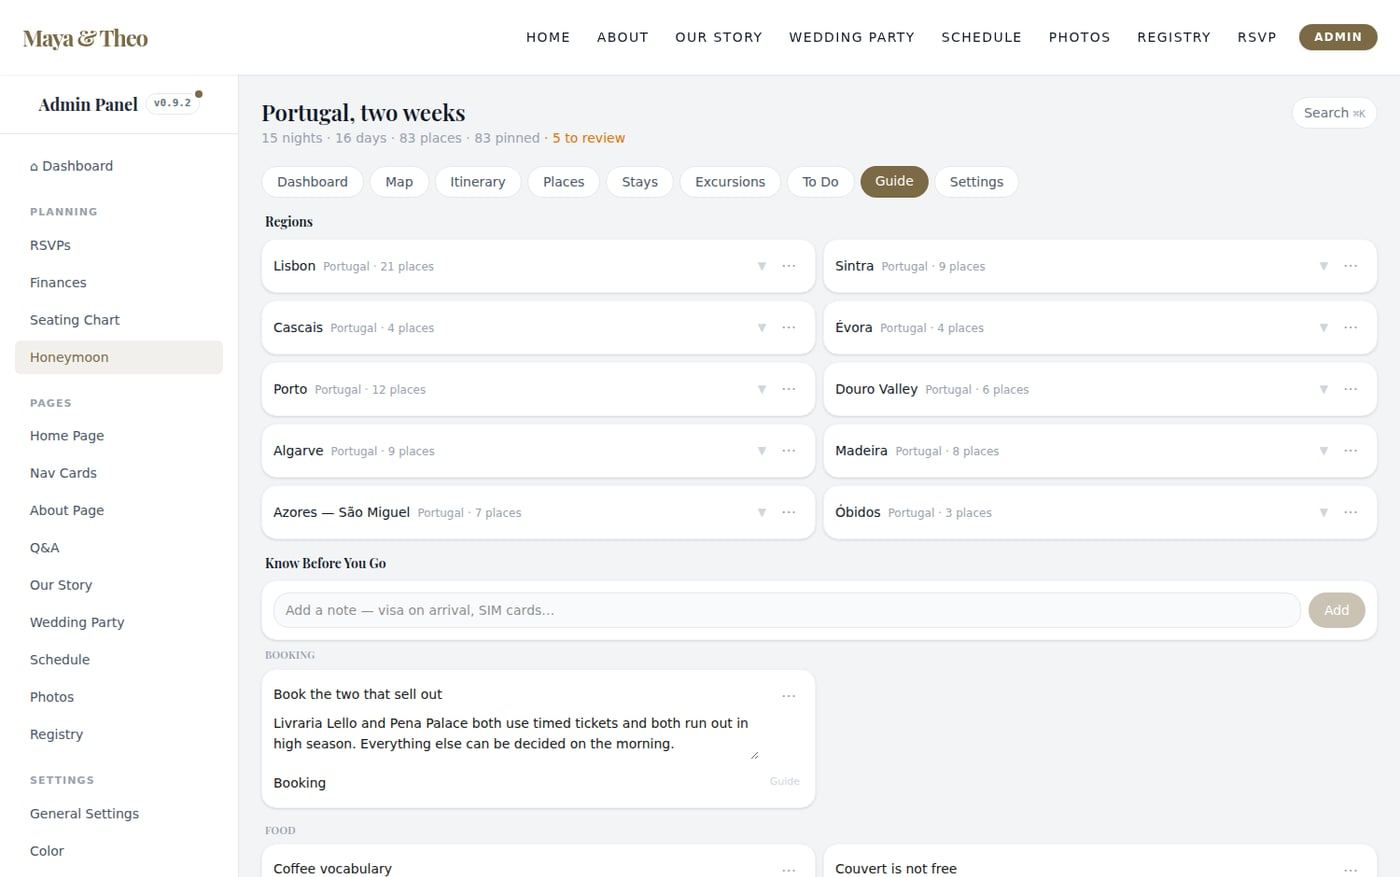
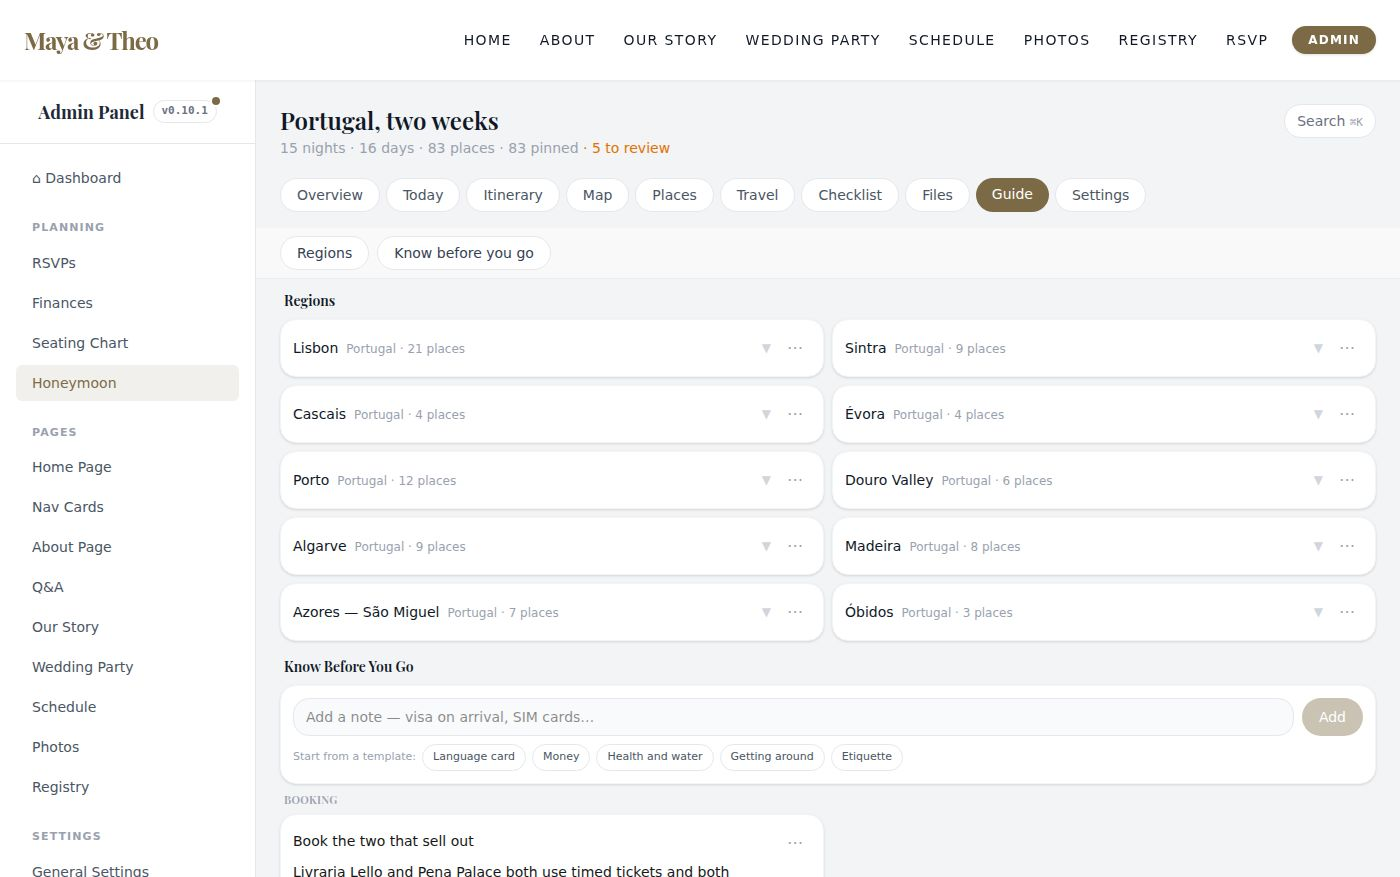
v0.10.1: Files, a calendar that waits for you, and a second pass

diff --git a/src/app/admin/honeymoon/FilesTab.tsx b/src/app/admin/honeymoon/FilesTab.tsx
@@ -491,12 +491,23 @@ function FileViewer({ docs, openId, onOpen, warnings }: {
                             </MiniSelect>
                         </Field>
                         <Field label="Whose">
-                            <MiniSelect value={doc.person ?? ''} onChange={(e) => set({ person: e.target.value })} aria-label="Whose">
-                                <option value="">Shared</option>
-                                {[...new Set([...partners, ...(doc.person ? [doc.person] : [])])].map((name) => (
-                                    <option key={name} value={name}>{name}</option>
-                                ))}
-                            </MiniSelect>
+                            {/* The trip's two names when Settings has them; a box to type
+                                one when it does not, so a file can always be someone's. */}
+                            {partners.length > 0 ? (
+                                <MiniSelect value={doc.person ?? ''} onChange={(e) => set({ person: e.target.value })} aria-label="Whose">
+                                    <option value="">Shared</option>
+                                    {[...new Set([...partners, ...(doc.person ? [doc.person] : [])])].map((name) => (
+                                        <option key={name} value={name}>{name}</option>
+                                    ))}
+                                </MiniSelect>
+                            ) : (
+                                <InlineText
+                                    value={doc.person ?? ''}
+                                    placeholder="+ A name, or leave for Shared"
+                                    className="-ml-2 text-sm"
+                                    onCommit={(person) => set({ person: person.trim() })}
+                                />
+                            )}
                         </Field>
                         <Field label="Expires">
                             <input

diff --git a/CHANGELOG.md b/CHANGELOG.md
@@ -11,6 +11,37 @@ All notable changes to this project are documented here, newest at the top.
 > renders those three as coloured badges. Bump the patch on every deploy, the minor when
 > asked. Entries predating this convention carry a date but no time.
 
+## v0.10.1 — [Released] Files, a calendar that waits for you, and a second pass (`main`, 2026-10-05 05:51)
+
+Austin: on a phone, Settings' trip calendar should need a tap before it can be dragged — scrolling the page kept changing the dates. Add a Files tab, in More on the phone and a tab of its own, as a proper file explorer for the travel documents, and take documents out of Settings. Then another pass of improvements.
+
+### Added
+- **A Files tab** — a file explorer for the travel documents. Folders down the side by kind (Passports, Visas, Insurance, Tickets, Vaccinations, Reservations) and by person, with counts; a grid of thumbnails or a list; search across names and notes. Click a file and it opens big — the image, or the PDF itself — with ‹ › (and the arrow keys) to step through the folder, and its details editable beside it: what it is, whose, when it expires, what it is for (a place or a flight), notes. Drop files anywhere on the page to add them; what each one is gets guessed from its name ("Boarding pass SQ938.png" files itself as a ticket) and is one tap to change. In **More** on a phone, between Checklist and Guide on a laptop, and `g f` from the keyboard.
+- **Warnings that matter at a border.** A passport that expires within six months of coming home — the rule many countries enforce at check-in — or anything (a passport, a visa, a policy) that runs out before or during the trip, is flagged on its file and at the top of the tab. No passport on file is said once.
+- **Documents really work offline.** The old Documents section promised its files were "cached by the offline snapshot, so they open with no signal". They were not: the offline copy held the pages and the trip, never the files. Now the Files tab and the Today view hand every document to the portal's offline store, a deleted file leaves it, and the tab shows "Saved for offline: 5 of 5" so the promise can be checked. Tested by cutting the network and opening all five sample files.
+- **A tap before the dates move, on a touch screen.** Settings' trip calendar is locked on a phone or tablet: it scrolls like the rest of the page, and **Change dates** unlocks dragging. It locks itself again once a range is set. A mouse is never locked.
+- **Pull a panel down to close it**, or up to make it full height — the gesture every phone sheet has taught people. A tap on the handle still toggles the height.
+- **"Travel documents" on the Today view**, one tap to Files. Not on the read-only share link: documents stay private.
+
+### Changed
+- **The phone calendar** is a month of squares — the date, the trip day, a dot per stop and ✈ for travel — instead of seven columns of text cut to "La…". Tap a day to open it.
+- **The place form fits its panel.** It laid itself out by the window's width, so inside the panel on a laptop it squeezed four columns ("Restauran", "— from regio"). It now follows the panel's own width, and on a phone it opens at full height.
+- **Today's day arrows say where they go** — "‹ Day 1", "Day 3 ›", "First day" — instead of a bare arrow, and the one with nowhere to go no longer looks like an empty box.
+- **Show on the map leaves room for the panel**: the place lands in the visible part of the map rather than half under the panel.
+- **Every button has a pressed state and a visible keyboard focus ring**, and the press animation respects reduced motion.
+- **Settings is quieter**: one-line card descriptions with the detail behind ⓘ. The "Adding places" card is gone — its tips are on the place form's Location ⓘ — and so is Documents, which has its own tab.
+- **The place form's help paragraphs** (cost, opening hours) are behind ⓘ.
+- **README screenshots** retaken from the demo trip, with the timeline, the place panel and Files added.
+
+### Fixed
+- **The trip calendar's month arrows did nothing** — in production since the calendar was added. The calendar grabbed every press to track a drag, including presses on its own arrow buttons, so their clicks never arrived. Only a press on a day starts a drag now. Found by the new browser check on the Done button, confirmed against the old code (June stayed June) and fixed (June → July).
+- **The travel-leg editor ran off the screen on a phone**: date and time sat side by side and the time box was cut off. They stack on a phone now, in the Travel tab and inside a day card.
+- **Settings' share-link text** mentioned an internal field name.
+
+### Tested
+- **25 new assertions in `npm run check:honeymoon`** (now 743): guessing a document's kind from its name, the expiry rules (during the trip, before it, under six months after, none without dates or an expiry date), the folders and their counts, and search.
+- **`npm run check:honeymoon:ui`** grows to 53 checks: Files is a tab and in More, Settings has no Documents, a file opens in the viewer, the touch calendar starts locked and Change dates / Done work, the phone calendar fits, nothing inside a card spills past the screen edge on six tabs, and pulling a panel down closes it.
+
 ## v0.10.0 — [Released] The honeymoon portal, reorganised — and usable on a phone (`main`, 2026-10-05 04:12)
 
 Austin: the honeymoon module has a lot of stuff put in with no real organisation. Clicking a place opens two or three different windows depending on where you click it — there should be one all-inclusive popout that is the same wherever it is opened from. The itinerary's controls scroll away with the page; Stacked and Clock belong to the left of Days, Timeline and Calendar; and transport should show in the timeline, whose point is to see everything on a day, when to be there and when it ends. Rework the UI, then make mobile actually work.

diff --git a/AGENTS.md b/AGENTS.md
@@ -58,11 +58,11 @@ image:
 | `npm run check:finance` | Budget arithmetic |
 | `npm run check:finance:db` | The same against a live database |
 | `npm run check:finance:ui` | The finance UI's contracts (needs a browser; fetches Playwright on demand) |
-| `npm run check:honeymoon:ui` | The honeymoon portal in a real browser, 38 checks: the same place panel and sections from every entry point, the itinerary toolbar staying on screen, travel on both timeline shapes, overview cards never overlapping, and at 390×844 no sideways scroll and no control under 44px on any of its pages. Needs a browser and a server with honeymoon data (`BASE=… ADMIN_PASSWORD=…`, or `DEMO=1` against the demo) |
+| `npm run check:honeymoon:ui` | The honeymoon portal in a real browser, 53 checks (none of them write): the same place panel and sections from every entry point, the itinerary toolbar staying on screen, travel on both timeline shapes, overview cards never overlapping, and at 390×844 no sideways scroll and no control under 44px on any of its pages. Needs a browser and a server with honeymoon data (`BASE=… ADMIN_PASSWORD=…`, or `DEMO=1` against the demo) |
 | `npm run check:hero` | The home page's hero collapse in a real browser, at five viewport-and-input pairings — phone portrait, **phone landscape**, tablet portrait, tablet landscape, desktop — each driven by the input that device actually sends. Needs a browser and a server whose site config has a hero photo, or every case reports the placeholder instead of a pass |
 | `npm run audit:finance` | A deeper sweep over the finance logic |
 | `npm run check:seating` | 211 assertions with no database or browser: who takes a chair (a party member who declined takes none), seat-index allocation, moves, swaps, gathering a split party, auto-seating, the plan's own warnings, and the export — tallies, vendor plates, the grand total, the spreadsheet's columns and the one-page fit maths |
-| `npm run check:honeymoon` | 718 assertions with no database or network: distances, date maths, URL parsing, the calendar grid, `.ics` output, search ranking, seed integrity, the trip-mode day resolution, sunrise/sunset, OSM opening hours, the day timeline, time zones on legs, the budget, conflicts, imports/exports, markdown, the flight parser, and journeys (layovers, day placement, door-to-door time) |
+| `npm run check:honeymoon` | 743 assertions with no database or network: distances, date maths, URL parsing, the calendar grid, `.ics` output, search ranking, seed integrity, the trip-mode day resolution, sunrise/sunset, OSM opening hours, the day timeline, time zones on legs, the budget, conflicts, imports/exports, markdown, the flight parser, and journeys (layovers, day placement, door-to-door time) |
 
 Seeds: `npm run seed:honeymoon` (bundles the Bali/Singapore travel guide,
 idempotent — matches on place name, never reverts an edit) and
@@ -281,6 +281,7 @@ order, before the commit:
   | `honeymoonCalendar.ts` | The `.ics` both calendar routes serve |
   | `honeymoonShare.ts` | Share tokens (server only) |
   | `honeymoonExport.ts` | The dashboard's offline copy: the whole payload as one self-contained HTML file |
+  | `honeymoonFiles.ts` | The Files tab: a document's kind from its filename, the expiry warnings (six months after the trip for a passport), folders, search |
 - `public/config/*.json` — file-based content config, written by the admin at
   runtime (`site.json` settings/colors/dates, `photos.json`, `timeline.json`);
   a Docker volume, not in git
@@ -451,9 +452,18 @@ order, before the commit:
   timeline, **journeys** (a whole ticket with its legs, layovers and one booking),
   places/stays/excursions with a booking vault and a budget, guide notes, a
   phone-first offline **Today** view, and per-country emergency details.
-  Nine tabs (Overview, Today, Itinerary, Map, Places — with Stays and Excursions
-  as its segments on their own URLs — Travel, Checklist, Guide, Settings), each
-  under a `TabToolbar`. **Below 768px** the shell sets `html.hm-compact`, which
+  Ten tabs (Overview, Today, Itinerary, Map, Places — with Stays and Excursions
+  as its segments on their own URLs — Travel, Checklist, Files, Guide, Settings),
+  each under a `TabToolbar`. **Files** (`FilesTab.tsx`) is the only place travel
+  documents live; Settings no longer has them. **Documents work offline because
+  the Files tab and the Today view post the list of document URLs to
+  `public/honeymoon-sw.js`**, which keeps exactly that list in its
+  `honeymoon-files-v1` cache and serves `/api/photos/…` from it when the network
+  fails. Until v0.10.1 the UI promised this and the worker never did it — if you
+  touch either side, keep the message (`honeymoon-sw:files`) and the cache name in
+  step. The trip calendar (`DateRangePicker`) is **locked on `pointer: coarse`**
+  until *Change dates*, and only a press on a day captures the pointer — capturing
+  every press is what broke its month arrows. **Below 768px** the shell sets `html.hm-compact`, which
   hides the site nav and the admin bar (see `globals.css`); the portal draws one
   slim bar and `MobileTabBar` along the bottom, the itinerary shows one day at a
   time, and its timeline is `DayAgenda` (vertical) instead of the bar or clock.

diff --git a/README.md b/README.md
@@ -205,15 +205,21 @@ it), sunrise and sunset, and a conflicts panel that collects everything wrong
 with the plan — a night with nowhere to sleep, two stays booked over the same
 nights, a booking whose dates disagree with the days it covers.
 
-**Finding your way around.** Nine tabs — Overview, Today, Itinerary, Map,
-Places (with Stays and Excursions as segments of it), Travel, Checklist, Guide
-and Settings — each with the same toolbar along its top. Click a place anywhere,
+**Finding your way around.** Ten tabs — Overview, Today, Itinerary, Map,
+Places (with Stays and Excursions as segments of it), Travel, Checklist, Files,
+Guide and Settings — each with the same toolbar along its top. Click a place anywhere,
 on the map, a list, a stay card, a stop on a day or a search result, and the same
 panel opens: everything about it, editable where it stands. The itinerary's
 Timeline view draws each day against the clock, flights and drives included,
 with check-out and check-in marked. On a phone the portal is its own app: one
 slim bar on top, tabs along the bottom, one day at a time with a swipe, and a
 vertical agenda for the timeline.
+
+**Files.** Passports, visas, insurance, tickets and booking confirmations in a
+file explorer of their own: folders by kind and by person, thumbnails, a viewer
+that steps through them, and warnings that matter at a desk — a passport with
+under six months left after you come home, a policy that ends mid-trip. Every
+file is kept on the device for offline use, and the page says how many are.
 
 **Taking it with you.** A Today view built for one thumb, cached by a service
 worker so it opens with no signal; an emergency card with the local numbers as
@@ -230,14 +236,23 @@ passports, visas and insurance you would be sorry to be without.
 | <img src="docs/images/honeymoon-itinerary.jpg" alt="The itinerary: day cards with a base, travel legs, timed stops and straight-line distances between them"> | <img src="docs/images/honeymoon-calendar.jpg" alt="The same itinerary as a month calendar, each trip day a tile carrying its stops"> |
 | Days with a base, travel legs and timed stops | The same trip on a real calendar |
 
-| Dashboard | Guide |
+| Timeline | One place panel |
 |---|---|
-| <img src="docs/images/honeymoon-dashboard.jpg" alt="The honeymoon dashboard: counts, the itinerary, a map of confirmed pins, what needs attention and rough costs"> | <img src="docs/images/honeymoon-guide.jpg" alt="Region write-ups and Know Before You Go notes grouped by category"> |
-| The whole trip on one screen | Region write-ups and everything with no coordinates |
+| <img src="docs/images/honeymoon-timeline.jpg" alt="A day on the clock: stops with start and end times, the flight in its own striped lane, and the hotel check-in marked"> | <img src="docs/images/honeymoon-panel.jpg" alt="The place panel open beside the stays: status, rating, the trip, where, booking and cost, the stay"> |
+| A day against the clock, travel and check-in included | The same panel wherever you click a place |
 
-> The screenshots above predate v0.10.0, which reorganised the portal (one place
-> panel, Stays and Excursions folded into Places, a toolbar on every tab) and
-> rebuilt it for phones. The content is the same; the layout around it changed.
+| Overview | Files |
+|---|---|
+| <img src="docs/images/honeymoon-dashboard.jpg" alt="The honeymoon overview: counts, the itinerary, a map of confirmed pins, what needs attention and rough costs"> | <img src="docs/images/honeymoon-files.jpg" alt="The Files tab: folders by kind and person, thumbnails, and warnings about a passport and a policy"> |
+| The whole trip on one page | Every travel document, checked against the dates and saved for offline |
+
+| Guide | |
+|---|---|
+| <img src="docs/images/honeymoon-guide.jpg" alt="Region write-ups and Know Before You Go notes grouped by category"> | |
+| Region write-ups and everything with no coordinates | |
+
+> Screenshots from the fictional demo trip, v0.10.1. The documents shown are
+> generated samples marked as such.
 
 ### On a phone
 
